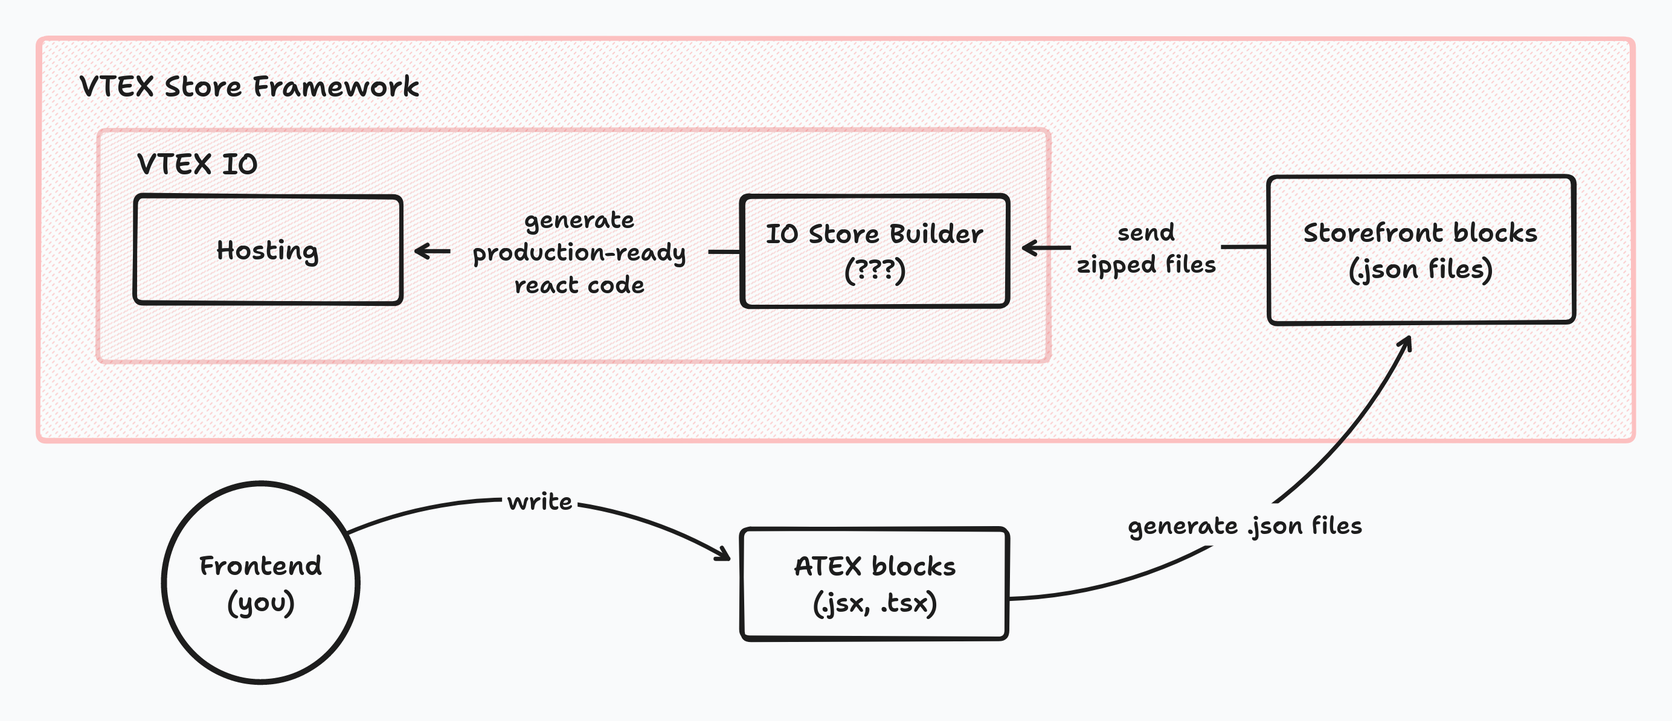
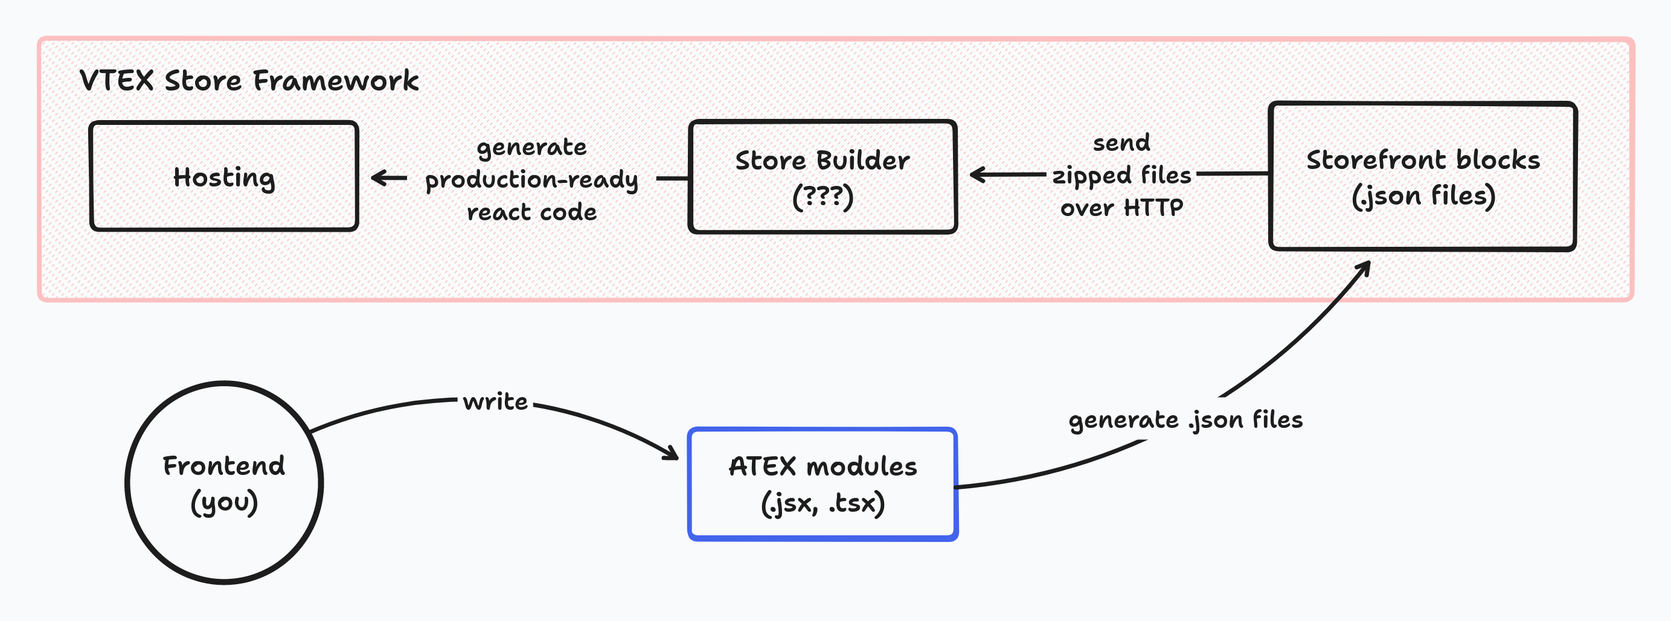
doc: first pass of wording fixes (#1)
docs: wording fixes

---------

Changed region(s): [[0.0, 0.0311, 0.9946, 0.964], [0.6216, 0.6531, 0.8081, 0.7464]]

diff --git a/README.md b/README.md
@@ -2,47 +2,37 @@
 
 # ATEX 💣
 
-A [Vite](https://vitejs.dev/) powered tool dedicated to Frontends (named as "VTEX IO Developers") who are working in companies that chooses VTEX to develop eCommerce websites.
+A [Vite](https://vitejs.dev/) powered tool made for Frontend Developers working in companies that use VTEX to develop eCommerce websites.
 
 ## Why ATEX
 
-[VTEX](https://vtex.com) is a SaaS platform with a variety of products and services dedicated to eCommerce, like an OMS, a CMS, etc.
+[VTEX](https://vtex.com) is a SaaS platform with a variety of products and services dedicated to eCommerce, such as an OMS, a CMS, etc.
 
-As a Frontend Developer, your job is to develop and maintain websites with one of those products, the [VTEX Store Framework](https://developers.vtex.com/docs/guides/vtex-io-documentation-what-is-vtex-store-framework).
+As a frontend developer, your job is to develop and maintain websites with one of these products, the [VTEX Store Framework](https://developers.vtex.com/docs/guides/vtex-io-documentation-what-is-vtex-store-framework).
 
 ### The Problems
 
 From this moment, a long rant begins, so please be patient.
 
-The VTEX Store Framework. This piece of ...software lets you develop a store website using React under the hood.
-
-Wait, what do you mean about "React under the hood"? It's like Next.js, isn't it?
-
-...
+The VTEX Storefront Framework is a piece of ...software that lets you develop a store website using React under the hood. What do I mean by "under the hood"? It is like Next.js, isn't it? Well...
 
 > The VTEX Store Framework is built on the **VTEX IO development platform** and **React** technology, and it is responsible for building the storefront by offering native ecommerce components in JSON format.
 >
 > — Official docs
 
-Yep, that's what you've read.
+Yes, you read that right.
 
 > [...] building the storefront [...] in JSON format.
 
-You, VTEX IO Champion, will template websites... with JSON.
+You, VTEX IO Champion, will template websites... with JSON. JSON used to generate React code. An abstraction of an abstraction.
 
-~html?~ JSON.
-
-JSON used to generate React code. An abstraction over an already high level abstraction.
-
-Below I show you a little diagram of how loosely works.
+Below is a simple diagram of how this loosely works.
 
 <img src="./assets/vtex-diagram-before.png"/>
 
-You might ask, given that generator, builder, compiler or whatever it is called, is there some local environment to look at the JavaScript code output? No, all of that is built by VTEX servers, handling things like Hydration (If you notice it via bugs, there is merely one blog post talking about it) and HMR (I would say Cold Module Replacement because it that lasts seconds to update).
+You might think that there would be some way to look at the code generated by the builder, but all of that is handled by the VTEX servers, alongside Hydration (with almost no documentation) and HMR (which really should be called Cold Module Replacement, since updates can take several seconds). It is possible to write external JavaScript code if VTEX does not provide a given component, at the end of the day in this JSON DSL you are just calling components.
 
-It is possible to write real external JavaScript code if VTEX doesn't provide X component, at the end of the day in this JSON DSL you're just calling components.
-
-If you are doubting: no, it was not invented by Tom. [We all agree he is a genius](https://www.youtube.com/watch?v=QwUPs5N9I6I), but unless he had worked at this company at some point, this is not the case.
+If you are doubting: no, this was not invented by Tom. [We all agree he is a genius](https://www.youtube.com/watch?v=QwUPs5N9I6I), but unless he had worked at this company at some point, this is not the case.
 
 Following the previous quote:
 
@@ -58,41 +48,35 @@ Following the previous quote:
 >
 > — Official docs
 
-Eh... no, let's see why it is false, buzzword by buzzword:
+Eh... no, let's see why this is false, buzzword by buzzword:
 
-- "fastest possible go-to-market", "flexible", "high customization": Suppose in a store website you have a header with a menu and a list of links pointing to product sub/categories. Using a well known tool like Vanilla JavaScript it would be easy to develop, scale and add features if necessary. However, if you only use the Menu component made by VTEX and not creating another one, you are not capable of mantain or add features without going crazy. [This file](./examples/store/real-world/generated-menu-items.json), which is a real world example, is something inevitably someone had to write [due to poor documentation, customizability and maintainability](https://github.com/vtex-apps/menu/pull/182). Where is the "low-code" code there? And about the mentioned pull request, in the meantime, what are the alternative actions that guy could do besides forking the repository or writting another hundrend of JSON manually?
+- "fastest possible go-to-market", "flexible", "high customization": Suppose in a store website you have a header with a menu and a list of links pointing to product subcategories. Using a well known tool like Vanilla JavaScript it would be easy to develop, scale and add features if necessary. However, if you use the Menu component made by VTEX, you are not capable of maintaining or adding features without going crazy. [This file](./examples/store/real-world/generated-menu-items.json), which is a real world example, is something someone inevitably had to write [due to poor documentation, poor customizability and poor maintainability](https://github.com/vtex-apps/menu/pull/182). Where is the so wanted "low-code" at that file? And about the mentioned pull request, in the meantime, what are the alternative actions that guy could take besides forking the repository or writting another hundrend lines of JSON manually?
 
-- "never get old": If that is the case, why at [the home page](https://vtex.com) the Store Framework is not advertised but their [new toolkit, FastStore](https://vtex.com/us-en/vtex-io/)? Do they want to deprecate an only 5 years of development framework? Next.js is older in comparison.
+- "never get old": If that is the case, why does [their home page](https://vtex.com) advertise their [new toolkit, FastStore](https://vtex.com/us-en/vtex-io/)? Do they want to deprecate a 5 years old development framework? Next.js is older by comparison.
 
 <img src="./assets/faststore.png"/>
 
-- "Standardize": First, that word is exclusively valid inside this service. Who can think using JSON as a markup language and, on top of that, [restricting CSS itself](https://developers.vtex.com/docs/guides/vtex-io-documentation-using-css-handles-for-store-customization) is a good idea? You've not seen the convoluted CSS it has had to be written because of this decision. Second, https://xkcd.com/927.
+- ["Standardize"](https://xkcd.com/927): That word is only valid within the service itself. Using JSON as a markup language and, on top of that, [restricting CSS itself](https://developers.vtex.com/docs/guides/vtex-io-documentation-using-css-handles-for-store-customization) is the opposite of standard. Extremely convoluted CSS has had to be written because of this decision.
 
 ### A Solution
 
-Enough ranting, let's see a posible solution to this. I had to put myself in Tom's shoes so expect to be a perfect one (?).
+Enough ranting, let's see a posible solution to this. I had to put myself in Tom's shoes, so expect it to be a peculiar one.
 
-To recap, the VTEX Store Framework is a code generator which takes JSON files as input, outputs a SSR React build and hosts it. If you are curious, you can visit a website they made to [look at examples](https://learn.vtex.com/page/learning-path-lang-en).
+To recap, the VTEX Store Framework is a code generator which takes JSON files as input, outputs a SSR React build and hosts it. If you are curious, you can visit [their examples website](https://learn.vtex.com/page/learning-path-lang-en).
 
-If your company is not going to migrate existing websites or develop new ones from the ground up with FastStore in the near future, what could be a nice thing to stop this pedantry? Avoiding writting thousands of JSON and use something reasonable like JSX to template websites.
+If your company is not going to migrate existing websites or develop new ones from the ground up with FastStore in the near future, what could be a nice way to avoiding writting thousands of lines of JSON? Maybe we could use something reasonable like JSX to template websites.
 
-Here is the part where I've to say sorry for those aware of the infinite build steps the Web Industry has invented over the years, the fire had to be fought with fire: ATEX is a JSX-to-JSON generator.
+Here is the part where I have to say sorry for those tired of the infinite build steps the web industry has invented over the years, but fire had to be fought with fire: ATEX is a JSX-to-JSON generator.
 
 <img src="./assets/vtex-diagram-after.png"/>
 
-That's right, instead of using an enterprise JSON DSL, utilize a JSX DSL and behold the ultimate almost-full-circle pipeline: from JSX/TSX to JavaScript to JSON (to JSX again?) to JavaScript.
+That's right, instead of using an enterprise JSON DSL, you can utilize a JSX DSL and behold the ultimate almost-full-circle pipeline: from JSX/TSX to JavaScript to JSON (to JSX again?) to JavaScript. Unironically, I'm convinced this will help VTEX IO Developers to focus on adding real value to eCommerce websites rather than working in excessive time consuming storefront templating.
 
-Unironically, I'm convinced this will help VTEX IO Developers to focus on adding real value to eCommerce websites rather than consuming excessive time and resources in the Storefront templating.
-
-If you know about templating with Store Framework, you can jump directly into [Getting started](#getting-started). In any case, let's have a look at what it means to template with this JSON and how JSX can be taken advantage of.
+If you know how templating works with the Store Framework, you can jump directly to [Getting started](#getting-started). If not, let's have a look at what it means to template with this JSON and how JSX can be taken advantage of.
 
 #### Store Framework semantics
 
-Briefly, inside a storefront repository, any `.json` located at `store/blocks` defines a set of React component instances using JSON Objects. VTEX names those Objects as "blocks".
-
-Each block is a component instance defined by its corresponding properties and referenced by the component name and an identifier.
-
-For example:
+Briefly, inside a storefront repository, any `.json` located at `store/blocks` defines a set of React component instances using JSON objects. VTEX names these objects "blocks". Each block is a component instance defined by its corresponding properties and referenced by the component name and an identifier. For example:
 
 ```jsonc
 {
@@ -115,11 +99,7 @@ For example:
 }
 ```
 
-It's theoretically defining two `RichText` and one `Image` components, each one with some properties and identifiers, `foo` and `bar` respectively. The latter are used to uniquely identify instance states in the [CMS](https://developers.vtex.com/docs/guides/vtex-io-documentation-site-editor), but that's not important here.
-
-Although they are defined, they're not rendered yet. To show them as content in a particular page we could use another component that organizes and renders them at some page.
-
-Following the example:
+This object defines two `RichText` components and an `Image` component, each one with some properties and identifiers, `foo` and `bar` respectively. The identifiers are used to uniquely identify instance states in the [CMS](https://developers.vtex.com/docs/guides/vtex-io-documentation-site-editor), but that's not important here. Although they are defined, they are not rendered yet. To show them as content in a particular page we must use another component to route them. In VTEX this is done using an array of references:
 
 ```diff
 // store/blocks/home.json
@@ -146,7 +126,7 @@ Following the example:
 }
 ```
 
-And asuming that `"store.home"` is another component that renders its children at the home page, with ATEX the code below will exactly generate that JSON:
+With ATEX, the JSON above can be generated by the code below:
 
 ```jsx
 export default function Home() {
@@ -170,7 +150,7 @@ export default function Home() {
 }
 ```
 
-This is the way ATEX expects you to develop, as it tries to replicate the experience of creating components using JSX, something any Frontend Dev is familiar with.
+This is the way ATEX expects you to develop, as it tries to replicate the experience of creating components using JSX, something any Frontend Developer is familiar with.
 
 Ending the preface, let's see some basics to get into it.
 
@@ -188,11 +168,19 @@ $ yarn global add atex
 $ pnpm add -g atex
 ```
 
-2. At your storefront repository, install `@types/node` as a dev dependency.
+2. At your storefront repository, install the following development dependencies:
+
+```sh
+$ npm install -D typescript @types/node
+# or
+$ yarn add -D typescript @types/node
+# or
+$ pnpm add -D typescript @types/node
+```
 
 3. Go to `./.vtexignore` and add the line `atex`.
 
-4. Write at `./atex/tsconfig.json`:
+4. Create `./atex/tsconfig.json`:
 
 ```json
 {
@@ -210,7 +198,7 @@ $ pnpm add -g atex
 
 5. Finally, create the folder `./atex/src` which will contain all the ATEX related files.
 
-That's all! Now, to start to developing with it, type `$ atex -w`.
+That's all! Now, to start developing, type `$ atex -w`.
 
 ### Examples
 
@@ -220,10 +208,10 @@ Go to [`./examples`](./examples) to see ATEX in practice.
 
 #### ATEX block
 
-An ATEX block is any JSX expression that defines and references a VTEX block. To be more precise, under the hood, it is a function call that does two things:
+An ATEX block is a JSX expression that defines and references a VTEX block. To be more precise, under the hood, it is a function call that does two things:
 
 - Returns the block's reference.
-- In case there are any JSX attribute, ATEX defines its VTEX block as a JSON Object, which will be part of the generated file scoped JSON. On the contrary, it does nothing; it's a valid case if you simply want the reference, maybe it's defined in another place.
+- In case there are any JSX attributes, ATEX defines its VTEX block as a JSON Object, which will be part of the generated JSON file. If there are no attributes, nothing happens. This is a valid case if you only want the reference, which may be defined elsewhere.
 
 <table style="width:100%">
 <thead>
@@ -296,12 +284,12 @@ Defines:
 Any VTEX block instance is referenced by a combination of:
 
 - Its component name.
-- A variant of the component (Particularly, the `flex-layout` is [internally two different components](https://github.com/vtex-apps/flex-layout/blob/6e480d0cbb205afe61d211857ccdb0abffee6f14/store/interfaces.json#L5-L15): `FlexLayout` as `flex-layout.row` and `Col` as `flex-layout.col`).
+- A variant of the component (Particularly, `flex-layout` is [internally two different components](https://github.com/vtex-apps/flex-layout/blob/6e480d0cbb205afe61d211857ccdb0abffee6f14/store/interfaces.json#L5-L15): `FlexLayout` as `flex-layout.row` and `Col` as `flex-layout.col`).
 - A unique hardcoded identifier.
 
-formated as `"{name}.{variant}#{identifier}"`.
+These are formatted as `"{name}.{variant}#{identifier}"`.
 
-In ATEX, the last two bullets are expressed with special JSX attributes: `$id` and `$type`.
+In ATEX, variants and identifiers are expressed with special JSX attributes: `$type` and `$id`.
 
 <table>
 <thead>
@@ -386,7 +374,7 @@ In ATEX, the last two bullets are expressed with special JSX attributes: `$id` a
 
 ##### Children and nested elements
 
-Looking at the examples above, why are references returned as string arrays? Because in VTEX it's very common to declare a block's children in this way.
+Looking at the examples above, why are references returned as string arrays? Because in VTEX it is very common to declare a block's children in this way.
 
 <table>
 <thead>
@@ -487,7 +475,7 @@ Defines:
 </tbody>
 </table>
 
-**Warning:** I've said "it's very common" but [it's not always true](https://developers.vtex.com/docs/apps/vtex.condition-layout#step-3-defining-the-desired-conditions). `"Then"` and `"Else"` props accepts strings, not string arrays. As a working around, and knowing that any JSX expression always returns a string array, you can type `(<component-name />)[0]` to get the `"component-name"` string value. Yeah, it's a little gross.
+**Warning:** I have said "it is very common" but [this is not always the case](https://developers.vtex.com/docs/apps/vtex.condition-layout#step-3-defining-the-desired-conditions). `"Then"` and `"Else"` props accept strings, not string arrays. As a workaround, and knowing that every JSX expression always returns a string array, you can type `(<component-name />)[0]` to get the `"component-name"` string value. Yeah, it's a little gross.
 
 <table>
 <thead>
@@ -577,7 +565,7 @@ Defines:
 
 ##### Upper-level attributes
 
-By default, well named JSX attributes are included inside the `"props"` key, like [the examples above](#atex-block). What about the `"blocks"` key which behaves similar to `"children"`, [the `"parent"` key](https://developers.vtex.com/docs/guides/vtex-io-documentation-customizing-the-header-and-footer-blocks-by-page), or anything that appears outside `"props"`? A solution to this is adding a `_` prefix to those attributes, like `_blocks`, `_parent`, etc.
+By default, well named JSX attributes are included inside the `"props"` key, like [the examples above](#atex-block). But what about the `"blocks"` key which behaves similar to `"children"`, [the `"parent"` key](https://developers.vtex.com/docs/guides/vtex-io-documentation-customizing-the-header-and-footer-blocks-by-page), or anything that appears outside `"props"`? A solution to this is adding a `_` prefix to those attributes, like `_blocks`, `_parent`, etc.
 
 <table>
 <thead>
@@ -646,7 +634,7 @@ Defines:
 
 ##### Fragment
 
-To render more than one block without a parent, use the classic Fragment syntax.
+To render more than one block without a parent, you can use a Fragment, like in React.
 
 <table>
 <thead>
@@ -705,13 +693,13 @@ Defines:
 </tbody>
 </table>
 
-As seen, it returns multiple references instead of a single item array.
+As seen, it returns multiple references instead of a single item.
 
 #### Modules
 
 ##### ATEX Module (JSX/TSX)
 
-An ATEX Module is a `.jsx/tsx` file used to always export a `.json` to `store` named like this:
+An ATEX Module is a `.jsx/tsx` file which is used to export a `.json` to `store` like this:
 
 - `foo.jsx -> foo.json`
 - `blocks/bar/baz.tsx -> blocks/bar/baz.json`
@@ -728,13 +716,13 @@ In modern UI Frameworks like [Next.js](https://nextjs.org/docs/app/building-your
 
 ##### JS/TS
 
-Regular JavaScript/TypeScript files can be used to declare variables, helper functions, etc. In practice, their entirely purpose is to be imported by ATEX Modules, like in [this example](./examples/atex/src/real-world/menu-items.ts).
+Regular JavaScript/TypeScript files can be used to declare variables, helper functions, etc. In practice, their purpose is to be imported by ATEX Modules, like in [this example](./examples/atex/src/real-world/menu-items.ts).
 
 ##### JSON
 
 In ATEX, a file with this human-readable format has three special features.
 
-- Can be [imported](https://vitejs.dev/guide/features.html#json).
+- It can be [imported](https://vitejs.dev/guide/features.html#json).
 - Its JSON is exported like an ATEX Module. However, it is done as it is, meaning that it behaves the same as if it were in `store`. So, you could write normal VTEX blocks, `routes.json`, `interfaces.json`, etc in `atex/src`.
 - If you want to write and consume a JSON module without exporting it to `store`, add a `_` prefix to its basename.
 
@@ -742,11 +730,11 @@ In ATEX, a file with this human-readable format has three special features.
 
 ##### Propagation
 
-Naturally, when you're running `atex` in watch mode, a file change will re-execute any module importing it.
+Naturally, when you are running `atex` in watch mode, a file change will re-execute any module importing it.
 
 #### ATEX Component
 
-An ATEX Component is used to split JSX away from the default function and to avoid repeated code. You can think of it as a regular component.
+An ATEX Component lets you split JSX away from the default function and avoid code duplication. Think of it as a regular React component.
 
 ```tsx
 import type { AtexComponent } from 'atex/types'
@@ -766,7 +754,7 @@ export default () => (
 )
 ```
 
-Keep in mind that each component call may be invalid if it produces two different definitions with the same reference; you could use a property as an identifier to solve it.
+Keep in mind that each call of a component may be invalid if it produces two different definitions with the same reference; you can use a property as an identifier to solve it.
 
 ```tsx
 import type { AtexComponent } from 'atex/types'
@@ -825,7 +813,7 @@ Although [`./types`](./types) is production ready, there are some details to be 
 
 First, any JSX element has at least [these properties](./types/index.d.ts#L1). That does not mean they are all correct in VTEX. For example, `"blockClass"` is not always used in all VTEX blocks.
 
-Second, which is also related to the previous one, there are some VTEX blocks whose properties are not documented, so you have to search its source code manually and see the types I've not found.
+Second, which is also related to the previous one, there are some VTEX blocks whose properties are not documented, so you have to search [its source code](https://github.com/vtex-apps) manually and see the types I have not found.
 
 Because of a lot of sparsed VTEX documentation and scarce time, any PR including type fixes will be gladly merged.
 
@@ -833,7 +821,7 @@ Because of a lot of sparsed VTEX documentation and scarce time, any PR including
 
 If there is a JSX element in your code unnamed in [`./types`](./types) it is weakly typed, like Vanilla JavaScript. This will always occur with custom blocks.
 
-If you want to type a custom block you have to keep in mind if its source code is inside the store project (`./react` folder) or if it's in an external app. In all cases, it is up to you where its declaration file (`.d.ts`) should be located and how it's installed, as it is not part of this project' scope.
+If you want to type a custom block you have to keep in mind if its source code is inside the store project (`./react` folder) or if it is in an external app. In all cases, it is up to you where its declaration file (`.d.ts`) should be located and how it is installed, as it is not part of this project' scope.
 
 Besides that, an idea could be the following if it is an external app, which is the most complicated to solve: To have a single source of truth, include the declaration file inside the app repository. It may be necessary to install `atex` there to have its basic types. Then, publish it as a normal npm package and install it in the store repository. Finally, you can add it in `tsconfig.json`.
 
@@ -867,9 +855,9 @@ Due to the project implementation, limited by the framework abstractions, there 
 
 #### `__fold__` block and naming conventions
 
-By convention, almost all VTEX blocks are named using `kebab-case`, which it's great for the JSX transpiler. Unfortunately, there are examples in which it doesn't happen. One of those is [this block](https://developers.vtex.com/docs/guides/fold-block) which is not considered a valid element name, but a JavaScript identifier because it starts with a non-alphabetical char. Another case is when it's `CamelCased` because the transpiler considers it a component identifier.
+By convention, almost all VTEX blocks are named using `kebab-case`, which is great for the JSX transpiler. Unfortunately, there are some counterexamples. One of these is [the `__fold__` block](https://developers.vtex.com/docs/guides/fold-block) which is not considered a valid element name but rather a JavaScript identifier because it starts with a non-alphabetical character. Another case is `CamelCased` blocks because the transpiler considers it a component identifier.
 
-When these kind of scenarios happens, it throws a `ReferenceError: <identifier> is not defined`. A workaround to remediate this is to define strings with those block names somewhere.
+When these kind of scenarios happens, ATEX will throw a `ReferenceError: <identifier> is not defined` error. A workaround to remediate this is to use correctly named variables which wrap the block names.
 
 ```jsx
 const Fold = '__fold__'
@@ -896,7 +884,7 @@ Ignoring the `__fold__` case, it is recommended to name your custom blocks using
 
 This topic is a little hard to explain, so first let's loosen up with a simple example.
 
-If you look at [this folder](./examples/atex/src/complex/Carousel%20blocks), you will see that `home.tsx` is using the `SliderHome` component defined in `slider-layout.tsx`. Then, its JSON definition is included in [`slider-layout.json`](./examples/store/complex/Carousel%20blocks/slider-layout.json) and in [`home.json`](./examples/store/complex/Carousel%20blocks/home.json) its reference. Reasonable, right?
+If you look at [this folder](./examples/atex/src/complex/Carousel%20blocks), you will see that `home.tsx` is using the `SliderHome` component defined in `slider-layout.tsx`. Then, its JSON definition is included in [`slider-layout.json`](./examples/store/complex/Carousel%20blocks/slider-layout.json) and its reference is included in [`home.json`](./examples/store/complex/Carousel%20blocks/home.json). Reasonable, right?
 
 But what happens if `SliderHome` accepts props? Where will be defined?
 
@@ -919,13 +907,13 @@ export default () => (
 )
 ```
 
-First, `slider-layout.tsx` will have an error because it is a default function with parameters, which is called without arguments. If we remove the `default` keyword and assume there is another defaulted, `SliderHome` will just be a function called in `home.tsx`. Where will be its JSON definition? In theory at `slider-layout.tsx` scope, but it is not. For better or worse, any imported ATEX component with parameters called won't have its JSON definition exported, but its reference which is useless.
+First, `slider-layout.tsx` will throw an error because it is a default function with parameters. A default function must be called with no parameters. If we remove the `default` keyword, `SliderHome` will only be a function called in `home.tsx`. Where will its JSON definition be? In theory, at the `slider-layout.tsx` scope, but in reality nowhere. For better or worse, any imported ATEX component called with parameters cannot have its JSON definition exported, only its reference.
 
 To conclude, it is only useful to import ATEX components without parameters.
 
 #### `_props` attribute
 
-This special attribute is not recommended to use, but accepted if there is a need to overwrite/add an untyped or invalid property. It is also an alternative to using the `// @ts-ignore` line.
+This special attribute is not recommended, but it can be used if there is a need to overwrite/add an untyped or invalid property. It is also an alternative to the `// @ts-ignore` line.
 
 <table style="width:100%">
 <thead>
@@ -985,7 +973,7 @@ Options:
 
 ### Incremental migration
 
-As explained in [Usage/JSON](#json), ATEX supports `.json` files which behave the same as if they were at `store`. So, if you're considering a migration, you could copy all files from `store` to `atex/src` and slowly replacing those with ATEX modules.
+As explained in [Usage/JSON](#json), ATEX supports `.json` files which behave the same as if they were at `store`. So, if you are considering a migration, you can copy all files from `store` to `atex/src` and slowly replace them with ATEX modules.
 
 **Warning:** JSON extensions like JSONC or JSON5 are not supported.
 
